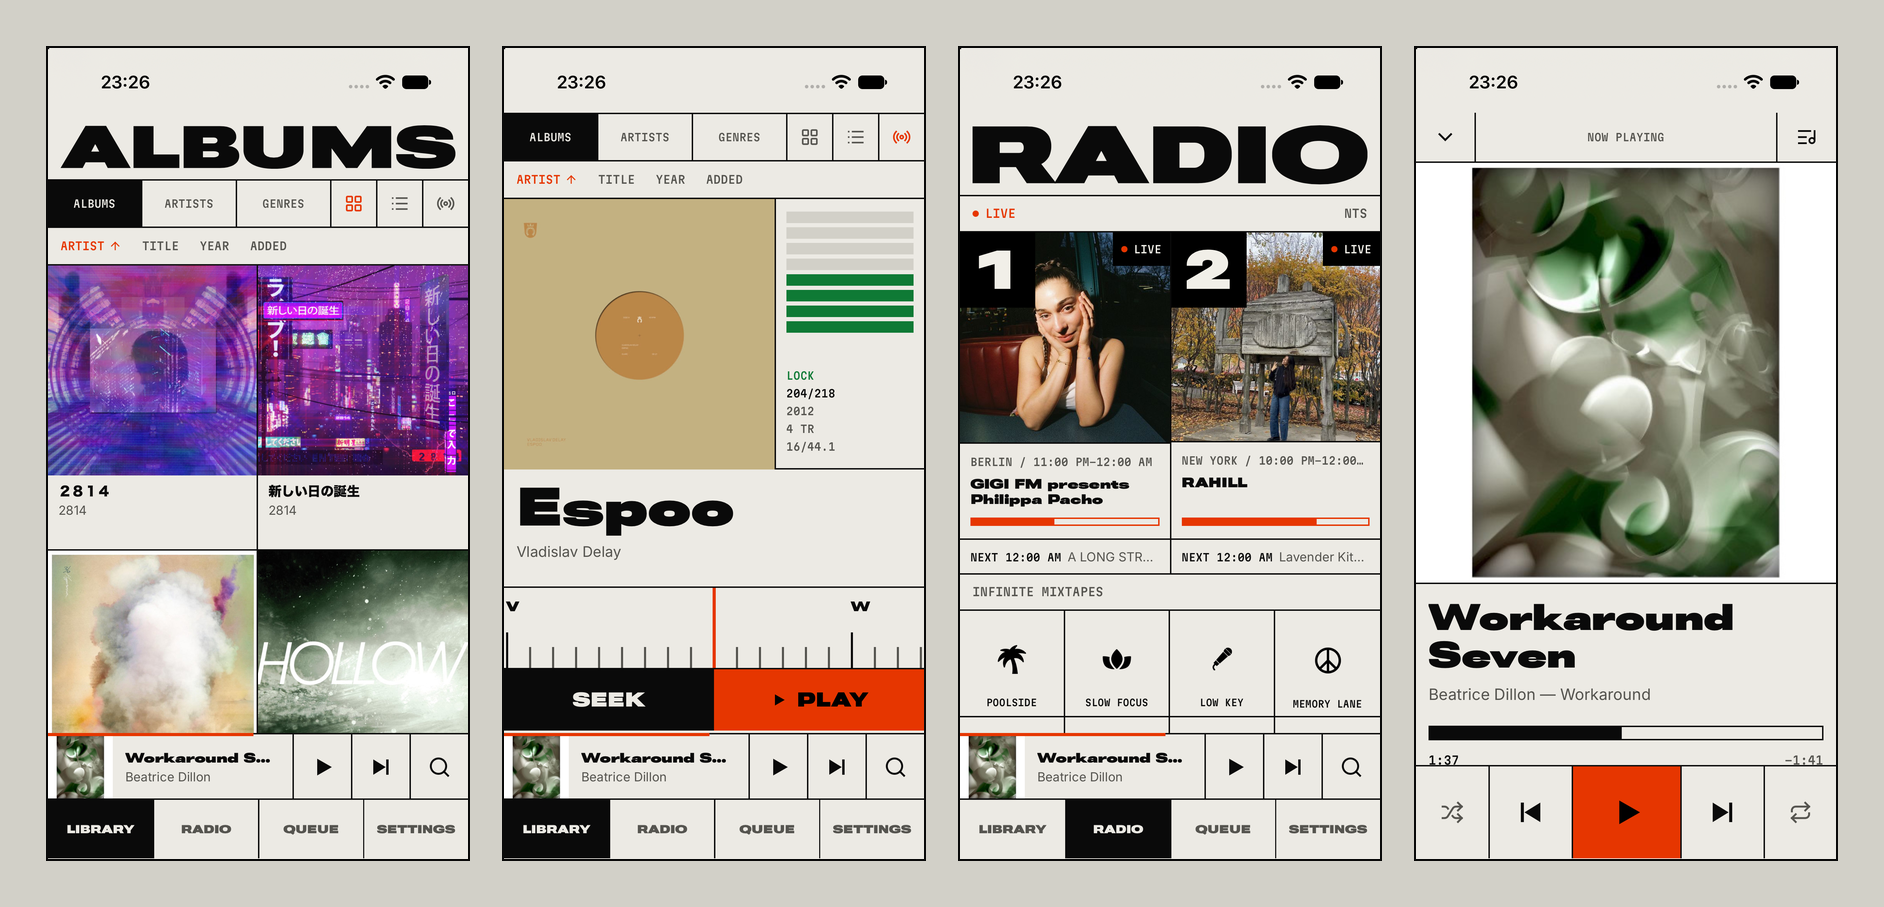
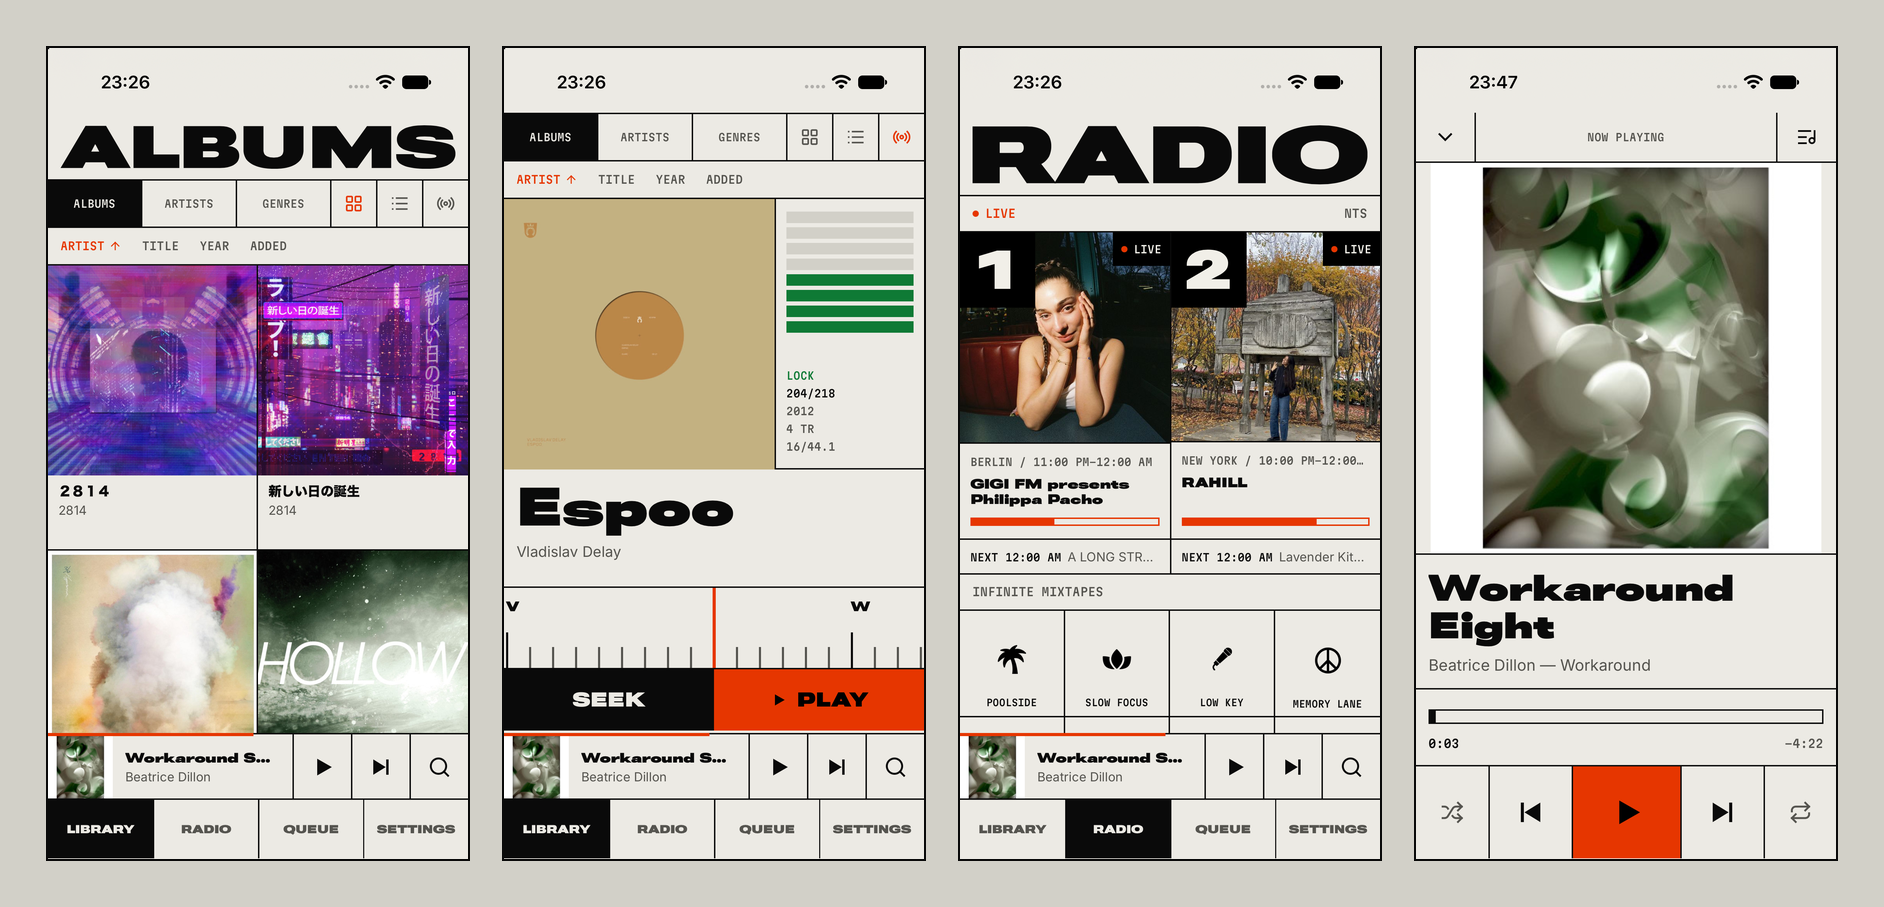
Keep the times in sight on Now Playing
The keys stayed at the bottom of the screen but the scrubber scrolled, so
on a short screen they covered its times. The scrubber now stays with the
keys, and on a phone the cover gives way so the title still fits. Long
titles step down to three lines rather than showing the top of a fourth.

Changed region(s): [[0.7389, 0.1852, 0.9851, 0.8335]]

diff --git a/web/src/routes/now/+page.svelte b/web/src/routes/now/+page.svelte
@@ -19,6 +19,8 @@
 	let stream = $derived(item ? isStream(item.uri) : false);
 	let upNext = $derived(hub.currentIndex >= 0 ? hub.queue.items.slice(hub.currentIndex + 1, hub.currentIndex + 4) : []);
 	let room = $state(0);
+	let titleHeight = $state(0);
+	let controlsHeight = $state(0);
 
 	function close() {
 		if (history.length > 1) history.back();
@@ -47,23 +49,25 @@
 
 	<div class="flex flex-1 flex-col md:grid md:grid-cols-[minmax(0,min(calc(100dvh-3rem),50vw))_minmax(0,1fr)] md:items-start">
 		<div class="border-b border-line md:border-r md:border-b-0">
-			{#if hub.external}
-				<div class="grid aspect-square w-full place-items-center bg-surface text-info">
-					<Airplay class="size-1/3" strokeWidth={1.25} />
-				</div>
-			{:else if item}
-				<NowCover
-					art={item.art}
-					src={shown?.large ?? null}
-					canPrevious={!stream && hub.currentIndex > 0}
-					canNext={!stream && hub.currentIndex < hub.queue.items.length - 1}
-					onclose={close}
-				/>
-			{:else}
-				<div class="grid aspect-square w-full place-items-center bg-surface text-faint">
-					<Disc3 class="size-1/3" strokeWidth={1} />
-				</div>
-			{/if}
+			<div class="mx-auto" class:fit={!hub.external} style:--below="{titleHeight + controlsHeight}px">
+				{#if hub.external}
+					<div class="grid aspect-square w-full place-items-center bg-surface text-info">
+						<Airplay class="size-1/3" strokeWidth={1.25} />
+					</div>
+				{:else if item}
+					<NowCover
+						art={item.art}
+						src={shown?.large ?? null}
+						canPrevious={!stream && hub.currentIndex > 0}
+						canNext={!stream && hub.currentIndex < hub.queue.items.length - 1}
+						onclose={close}
+					/>
+				{:else}
+					<div class="grid aspect-square w-full place-items-center bg-surface text-faint">
+						<Disc3 class="size-1/3" strokeWidth={1} />
+					</div>
+				{/if}
+			</div>
 		</div>
 
 		<div class="flex min-w-0 flex-1 flex-col self-stretch">
@@ -74,8 +78,8 @@
 				</div>
 				<button type="button" class="press-lit wide h-14 bg-fg text-[15px] text-bg uppercase" onclick={() => api.play()}>Play from library here</button>
 			{:else}
-				<div class="px-3 pt-3.5" bind:clientWidth={room}>
-					<h1 class="wide -mb-[0.16em] line-clamp-3 pb-[0.16em] leading-[1.03]" style:font-size="{room ? fitTitle(shown?.title ?? 'Not playing', room - 24, { scale: 1.1, max: 72 }) : 24}px">
+				<div class="px-3 pt-3.5 pb-3" bind:clientWidth={room} bind:clientHeight={titleHeight}>
+					<h1 class="wide -mb-[0.16em] line-clamp-3 pb-[0.16em] leading-[1.03]" style:font-size="{room ? fitTitle(shown?.title ?? 'Not playing', room - 24, { scale: 1.1, max: 72, lines: 3 }) : 24}px">
 						{shown?.title ?? 'Not playing'}
 					</h1>
 					{#if item?.albumId}
@@ -88,16 +92,9 @@
 						<p class="mt-2 truncate text-[15px] text-muted">{shown?.subtitle ?? 'Pick an album or a station'}</p>
 					{/if}
 				</div>
-				<div class="px-3 pt-1 pb-3">
-					{#if stream}
-						<OnAir {station} />
-					{:else}
-						<Scrubber value={hub.elapsed} max={hub.player.duration} disabled={!item} onseek={(s) => hub.seek(s)} />
-					{/if}
-				</div>
 			{/if}
 
-			<!-- Below on a phone, where the keys stay at the bottom of the screen. -->
+			<!-- Below on a phone, where the scrubber and the keys stay at the bottom of the screen. -->
 			<div class="md:order-3">
 				{#if station}
 					{@const show = station.now}
@@ -153,10 +150,31 @@
 			</div>
 
 			{#if !hub.external}
-				<div class="pb-safe sticky bottom-0 mt-auto border-t border-line bg-bg md:static md:order-2 md:mt-0">
-					<Transport size="lg" />
+				<div class="pb-safe sticky bottom-0 mt-auto border-t border-line bg-bg md:static md:order-2 md:mt-0" bind:clientHeight={controlsHeight}>
+					<div class="px-3 pt-1 pb-3">
+						{#if stream}
+							<OnAir {station} />
+						{:else}
+							<Scrubber value={hub.elapsed} max={hub.player.duration} disabled={!item} onseek={(s) => hub.seek(s)} />
+						{/if}
+					</div>
+					<div class="border-t border-line">
+						<Transport size="lg" />
+					</div>
 				</div>
 			{/if}
 		</div>
 	</div>
 </div>
+
+<style>
+	/*
+	 * On a phone the cover gives way when the screen is short, so the title and the controls both fit.
+	 * It leaves the controls over the title's bottom padding, hiding the rule of what comes next.
+	 */
+	@media (max-width: 767.98px) {
+		.fit {
+			width: min(100%, max(60vw, calc(100dvh - env(safe-area-inset-top) - 3rem - 1px - var(--below))));
+		}
+	}
+</style>

diff --git a/web/src/lib/fit.ts b/web/src/lib/fit.ts
@@ -63,14 +63,23 @@ const SMALLEST = 16;
 
 /**
  * The font size for `text` on lines `room` px wide, `scale` times the usual and at most `max`.
- * Given `tall`, the px it has going down, it steps down further until its lines fit in that.
+ * Given `tall`, the px it has going down, it steps down further until its lines fit in that;
+ * given `lines`, until it takes no more than that many.
  */
-export function fitTitle(text: string, room: number, { scale = 1, max = 88, tall = 0 }: { scale?: number; max?: number; tall?: number } = {}): number {
+export function fitTitle(
+	text: string,
+	room: number,
+	{ scale = 1, max = 88, tall = 0, lines = 0 }: { scale?: number; max?: number; tall?: number; lines?: number } = {}
+): number {
 	const length = [...text].length;
 	const step = STEPS.find(([most]) => length <= most)?.[1] ?? LONGEST;
 	const wanted = Math.min(max, (step * scale * room) / BASE);
 	const run = longestRun(text);
 	let size = Math.floor(run > 0 ? Math.min(wanted, room / run) : wanted);
-	if (tall > 0) while (size > SMALLEST && countLines(text, room / size) * size * LEADING > tall) size--;
+	const fits = () => {
+		const count = countLines(text, room / size);
+		return (!tall || tall < 0 || count * size * LEADING <= tall) && (!lines || count <= lines);
+	};
+	while (size > SMALLEST && !fits()) size--;
 	return size;
 }

diff --git a/web/src/lib/components/AlbumTuner.svelte b/web/src/lib/components/AlbumTuner.svelte
@@ -235,7 +235,7 @@
 		</div>
 
 		<a href="/album/{album.id}" class="flex min-h-0 flex-1 flex-col overflow-hidden px-3 py-2.5">
-			<h2 class="wide -mb-[0.16em] line-clamp-3 min-h-0 pb-[0.16em] leading-[1.03]" style:font-size="{fitTitle(album.title, width - 24, { max: 56, tall: height - size - DIAL - KEYS - TITLE_CHROME })}px">{album.title}</h2>
+			<h2 class="wide -mb-[0.16em] line-clamp-3 min-h-0 pb-[0.16em] leading-[1.03]" style:font-size="{fitTitle(album.title, width - 24, { max: 56, lines: 3, tall: height - size - DIAL - KEYS - TITLE_CHROME })}px">{album.title}</h2>
 			<p class="mt-1.5 shrink-0 truncate text-sm text-muted">{album.artist}</p>
 		</a>
 

diff --git a/web/src/lib/fit.test.ts b/web/src/lib/fit.test.ts
@@ -52,6 +52,13 @@ describe('fitTitle', () => {
 		assert.equal(fitTitle('Sonno', 366, { tall: 200 }), fitTitle('Sonno', 366));
 	});
 
+	it('steps down until it takes no more than so many lines', () => {
+		const title = 'The Shape of Punk to Come: A Chimerical Bombination in 12 Bursts';
+		const size = fitTitle(title, 378, { lines: 3 });
+		assert.ok(countLines(title, 378 / size) <= 3);
+		assert.equal(fitTitle('Sonno', 378, { lines: 3 }), fitTitle('Sonno', 378));
+	});
+
 	it('stops at the smallest size that reads', () => {
 		assert.equal(fitTitle('The Shape of Punk to Come: A Chimerical Bombination in 12 Bursts', 366, { tall: 10 }), 16);
 	});
